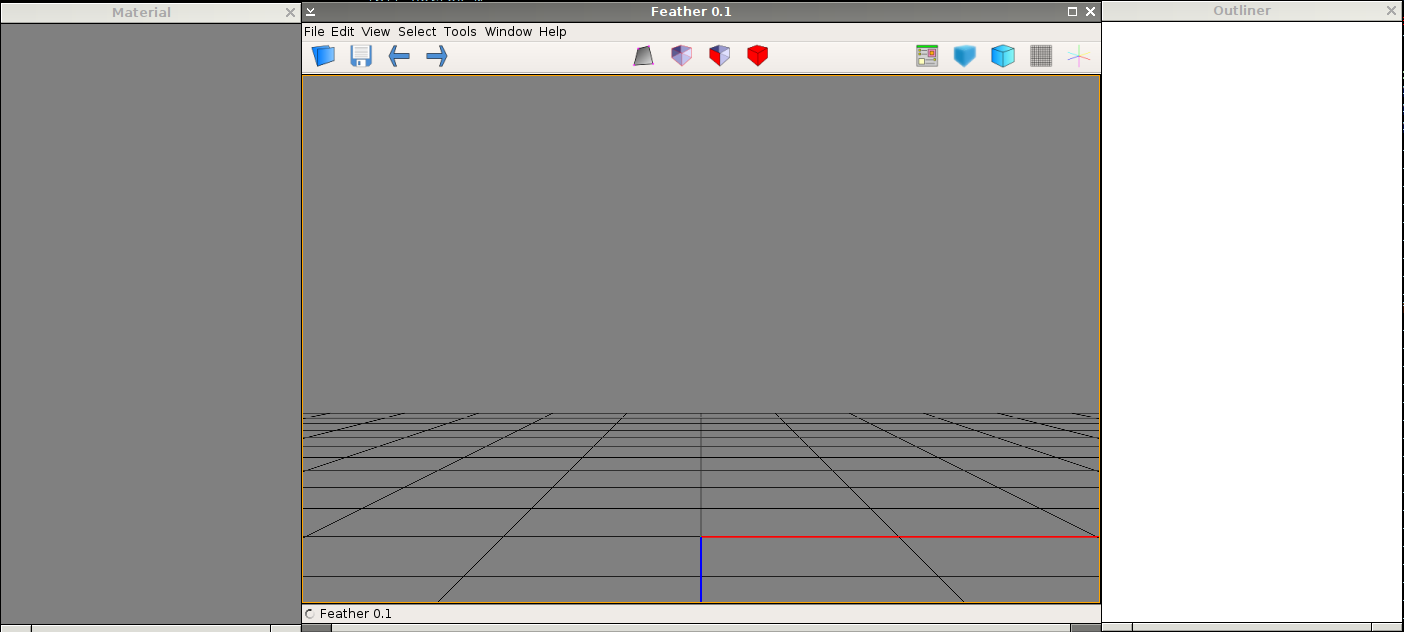
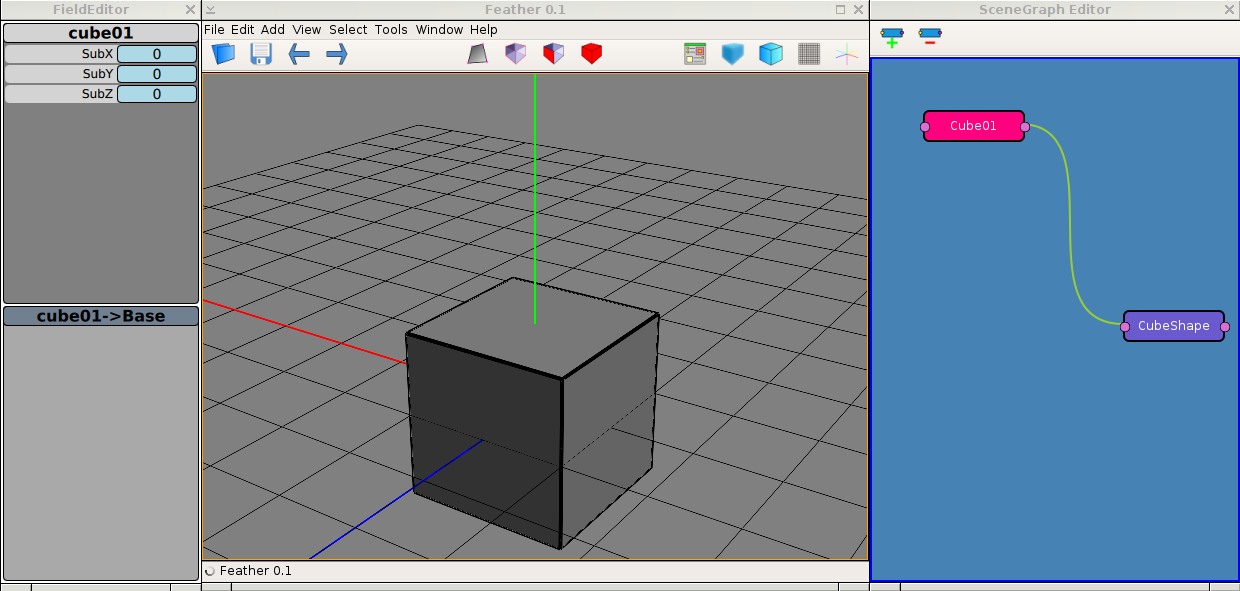
updated ui screencap

diff --git a/src/qml/FieldEditor.qml b/src/qml/FieldEditor.qml
@@ -57,15 +57,33 @@ Window {
             anchors.margins: 2
 
             IntField {
-                id: test1
+                id: subX 
                 width: parent.width
                 // Ok, this is dangerous because the program will seq fault.
                 // This will need to be verified by the scenegraph
                 // BUT.... for the time being this will do for testing
-                uId: 1
-                nodeKey: 320
+                uId: 0
+                nodeKey: 322
+                fieldKey: 1 
+                label: "SubX"
+            }
+
+            IntField {
+                id: subY 
+                width: parent.width
+                uId: 0
+                nodeKey: 322
                 fieldKey: 2 
-                label: "target"
+                label: "SubY"
+            }
+
+            IntField {
+                id: subZ 
+                width: parent.width
+                uId: 0
+                nodeKey: 322
+                fieldKey: 3 
+                label: "SubZ"
             }
 
         }

diff --git a/src/lib/plugins/polygon/src/main.cpp b/src/lib/plugins/polygon/src/main.cpp
@@ -108,9 +108,9 @@ NODE_INIT(POLYGON_PLANE,node::Polygon)
  ***************************************
 */
 
-ADD_FIELD_TO_NODE(POLYGON_CUBE,int,field::Int,field::connection::In,2,1)
-ADD_FIELD_TO_NODE(POLYGON_CUBE,int,field::Int,field::connection::In,2,2)
-ADD_FIELD_TO_NODE(POLYGON_CUBE,int,field::Int,field::connection::In,2,3)
+ADD_FIELD_TO_NODE(POLYGON_CUBE,int,field::Int,field::connection::In,0,1)
+ADD_FIELD_TO_NODE(POLYGON_CUBE,int,field::Int,field::connection::In,0,2)
+ADD_FIELD_TO_NODE(POLYGON_CUBE,int,field::Int,field::connection::In,0,3)
 ADD_FIELD_TO_NODE(POLYGON_CUBE,int,field::Int,field::connection::Out,5,4)
 
 namespace feather
